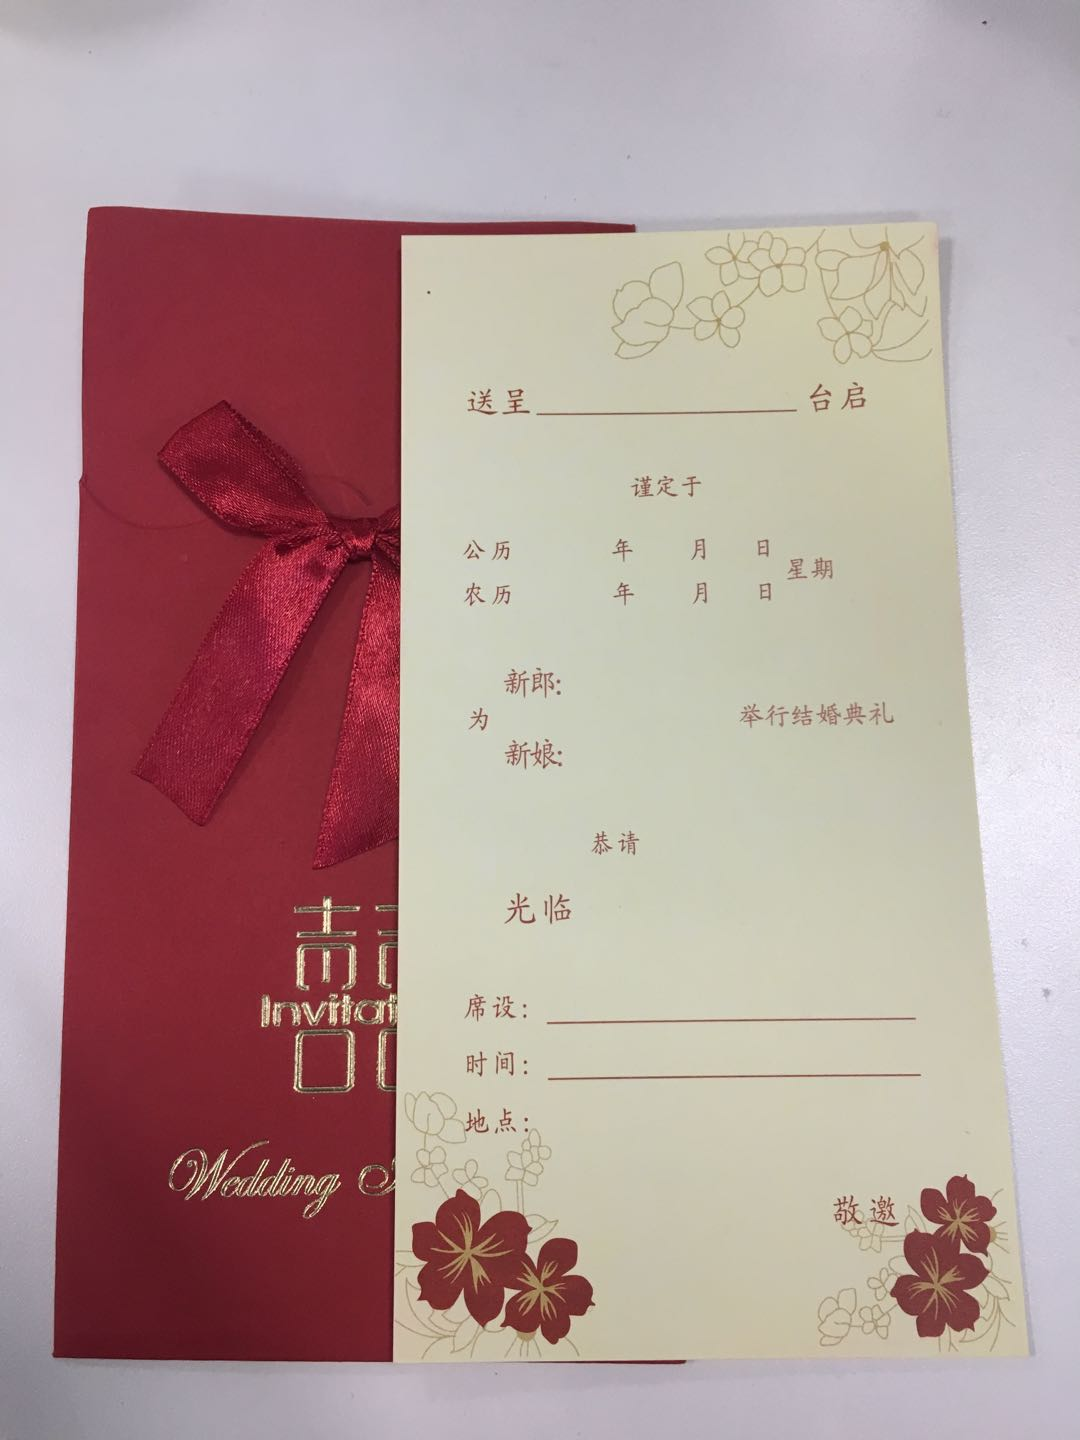
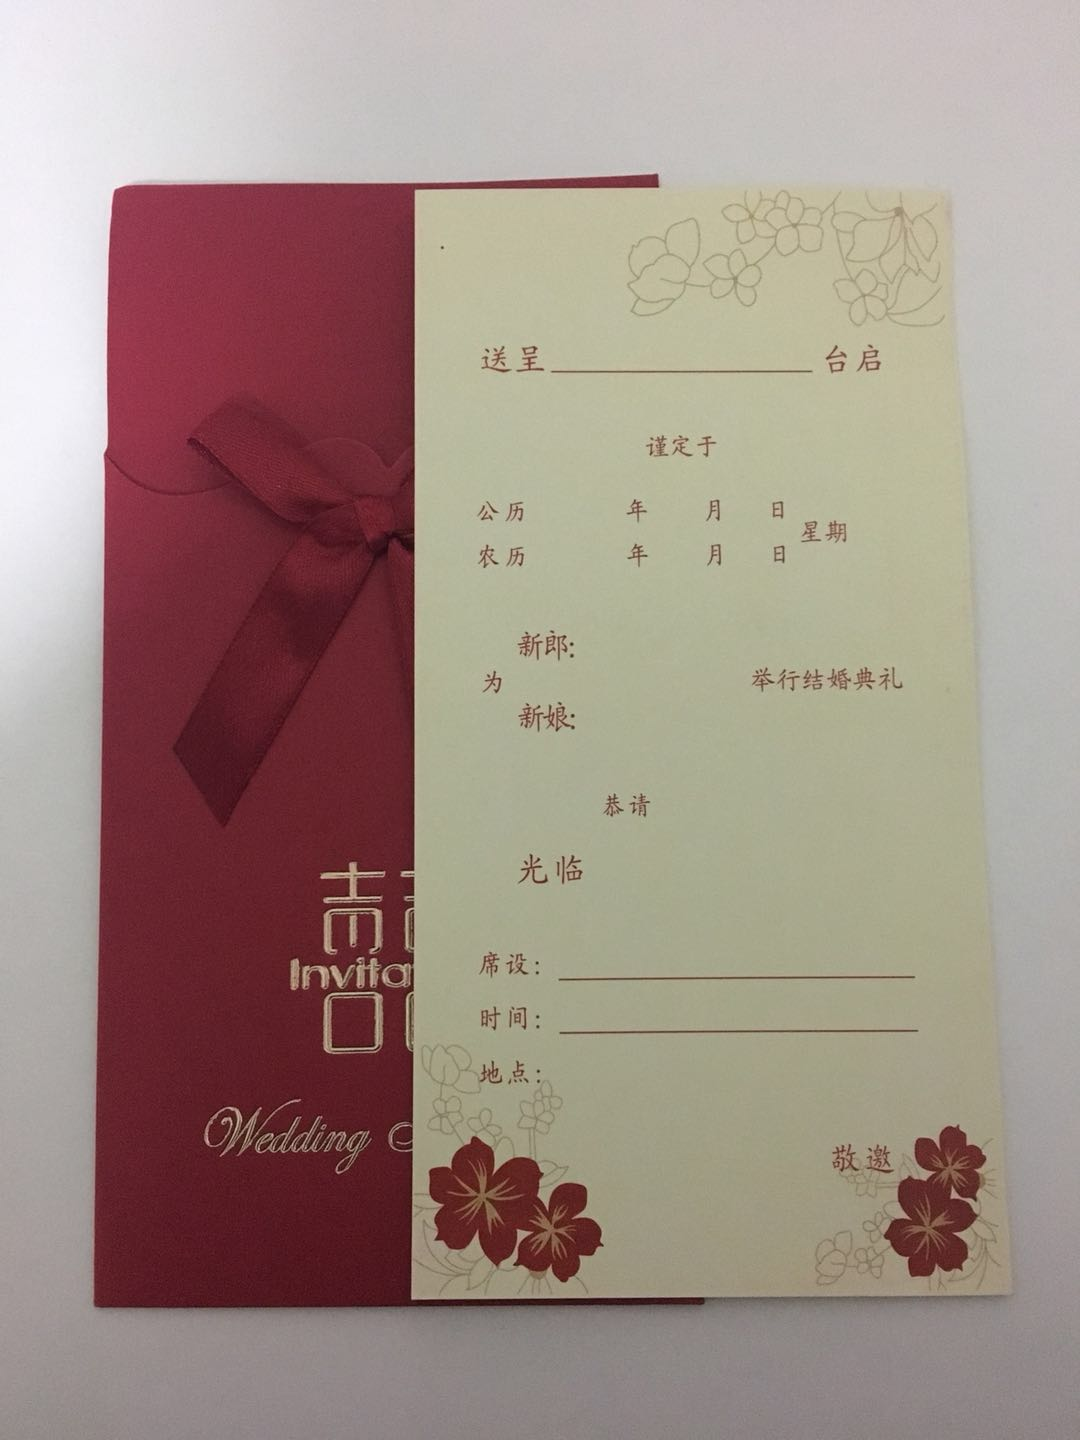
更换背景图片并调整参数

diff --git a/card.py b/card.py
@@ -25,22 +25,23 @@ def fill_card(target, ptarget, keys, image_path='assets/image.jpeg', fpath='asse
         font = ImageFont.truetype(fpath, key['size'])
         draw.text((key['x'],key['y']),key['str'],fill=fcolor,font=font)
         del font
-    img.save('喜帖_%s.jpg' % target[0],'jpeg')
+    img.show()
+    #img.save('喜帖_%s.jpg' % target[0],'jpeg')
 
 fixed = [
-        {'x':538,'y':525,'size':35,'str':'2017'},
-        {'x':658,'y':525,'size':35,'str':'2'},
-        {'x':718,'y':525,'size':35,'str':'21'},
-        {'x':840,'y':545,'size':35,'str':'三'},
-        {'x':580,'y':660,'size':35,'str':'冯鹏'},
-        {'x':580,'y':730,'size':35,'str':'王闫岩'},
-        {'x':555,'y':980,'size':32,'str':'三江红饭店'},
-        {'x':555,'y':1040,'size':32,'str':'下午17:30'},
-        {'x':555,'y':1095,'size':32,'str':'玉水金岸好声音KTV旁'},
+        {'x':560,'y':487,'size':32,'str':'2017'},
+        {'x':675,'y':487,'size':32,'str':'2'},
+        {'x':735,'y':487,'size':32,'str':'21'},
+        {'x':855,'y':508,'size':32,'str':'三'},
+        {'x':600,'y':622,'size':33,'str':'冯鹏'},
+        {'x':600,'y':693,'size':33,'str':'王闫岩'},
+        {'x':562,'y':940,'size':30,'str':'三江红饭店'},
+        {'x':562,'y':995,'size':30,'str':'下午17:30'},
+        {'x':562,'y':1050,'size':30,'str':'玉水金岸好声音KTV旁'},
         ]
 adjust =[
-        {'x':580,'y':365,'size':42},
-        {'x':655,'y':818,'size':35},
+        {'x':580,'y':325,'size':40},
+        {'x':665,'y':780,'size':35},
         ] 
 
 if __name__ == '__main__':
